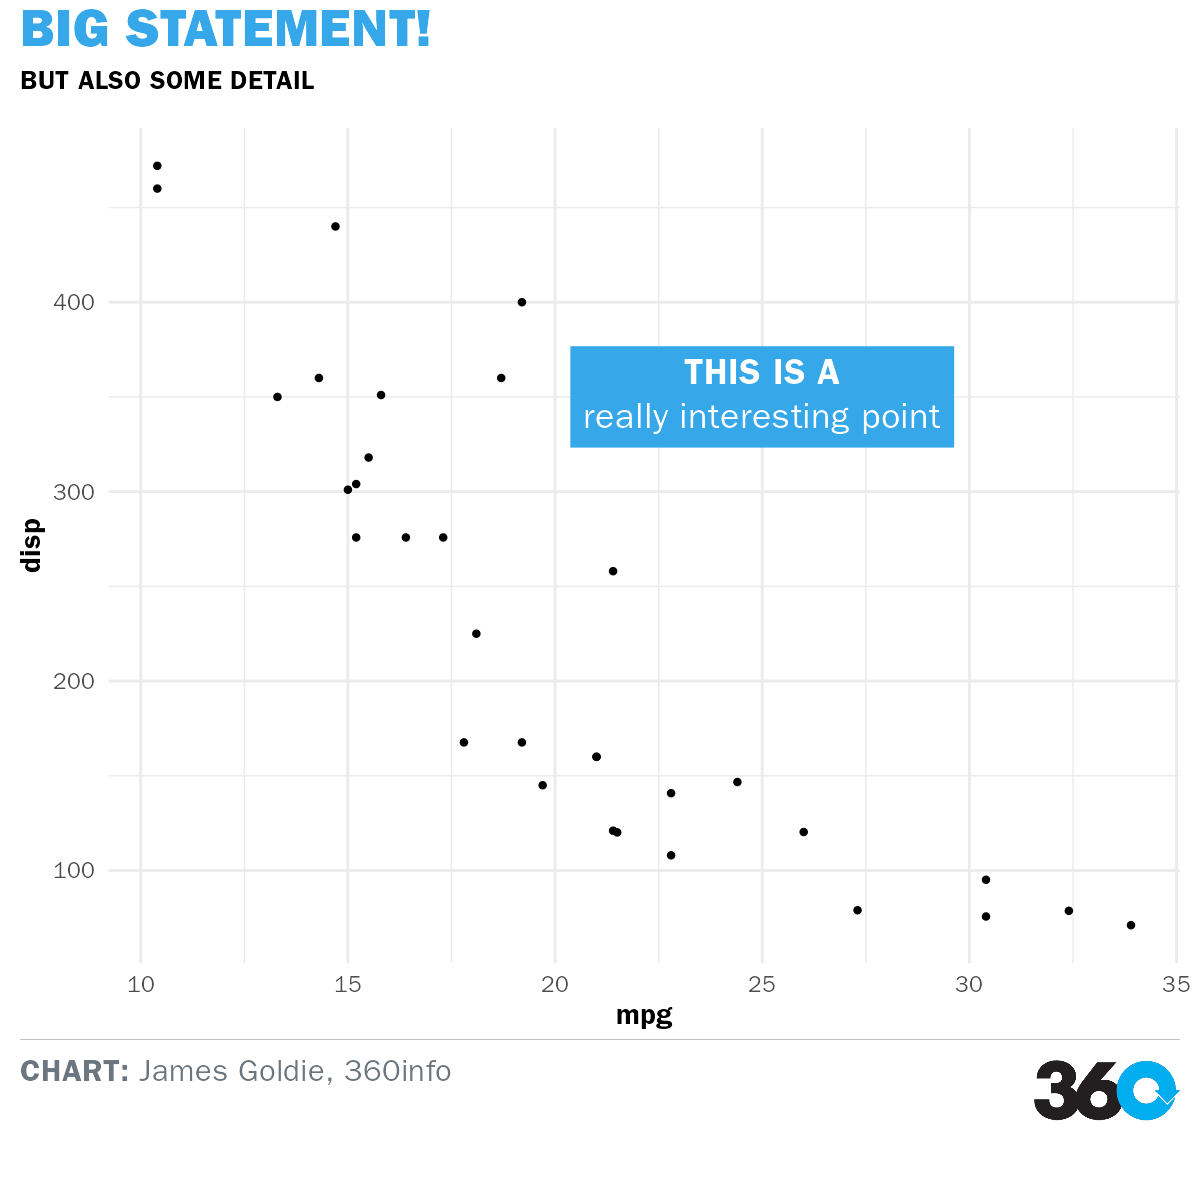
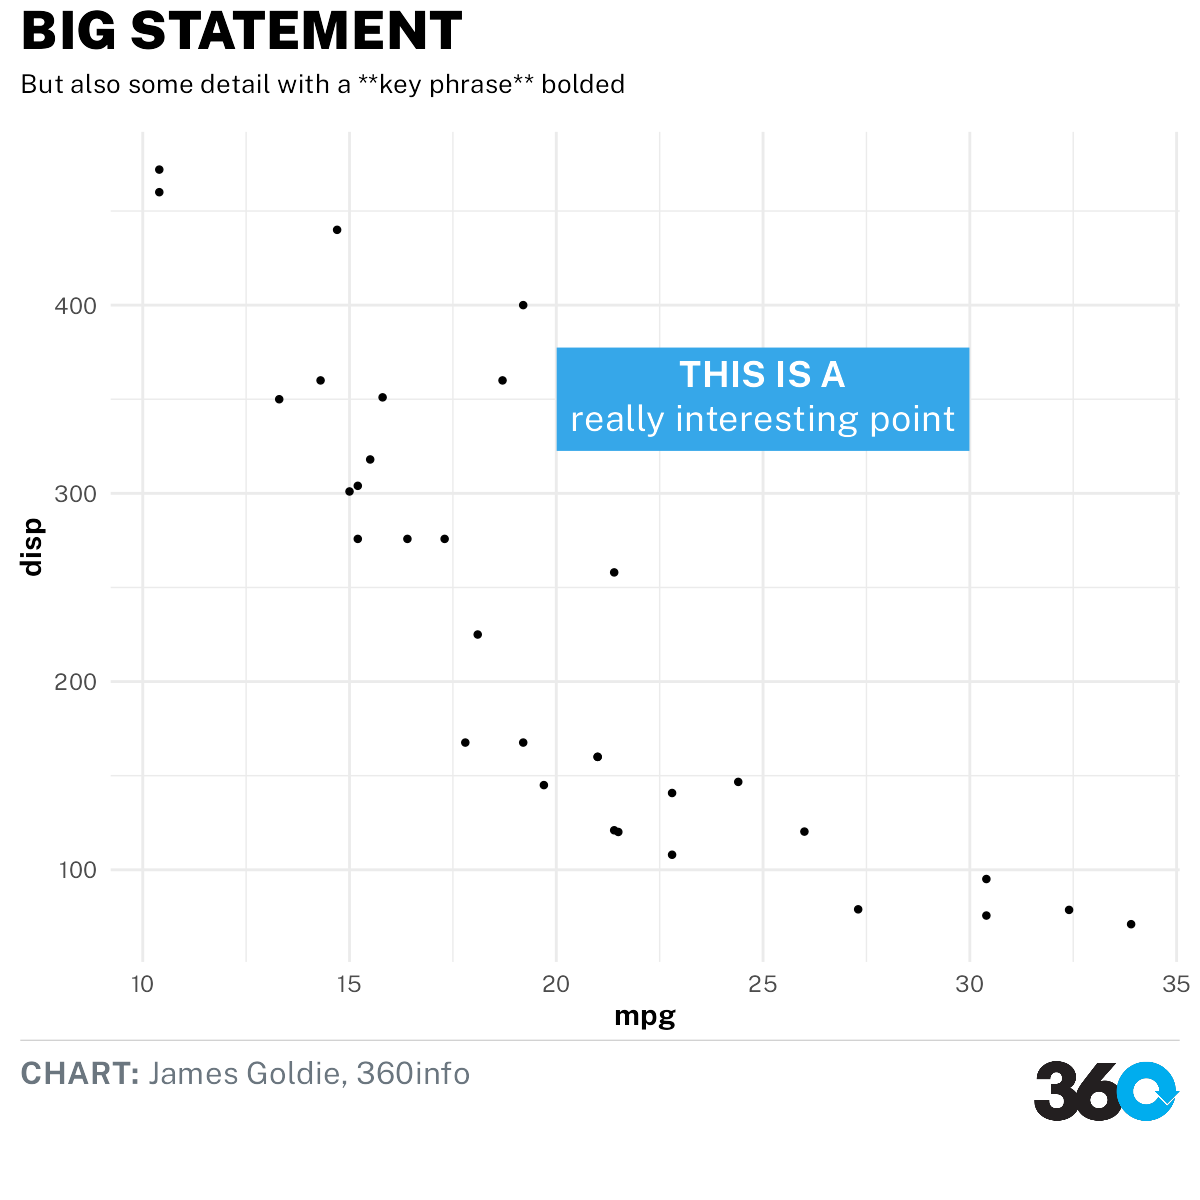
Update README

diff --git a/README.md b/README.md
@@ -9,18 +9,13 @@ guides
 <!-- badges: start -->
 
 [![Lifecycle:
-experimental](https://img.shields.io/badge/lifecycle-experimental-orange.svg)](https://lifecycle.r-lib.org/articles/stages.html#experimental)
+experimental](https://img.shields.io/badge/lifecycle-stable-green.svg)](https://lifecycle.r-lib.org/articles/stages.html#stable)
 <!-- badges: end -->
 
 # Installation
 
-First, download and install either the [Libre Franklin
-fonts](https://fonts.google.com/specimen/Libre+Franklin) or the [ITC
-Franklin Gothic
-fonts](https://www.myfonts.com/fonts/itc/franklin-gothic/) and install
-them.
-
-Then install the package with:
+Install the package from GitHub with the `remotes` or `devtools`
+packages:
 
 ``` r
 remotes::install_github("360-info/themes360info")
@@ -30,15 +25,15 @@ remotes::install_github("360-info/themes360info")
 
 To create plots in our style:
 
--   Add `themes360info::theme_360` to your ggplot2 plot;
--   Add our fonts to other elements, like annotations or additional
-    theme customisations (see the [“Working with fonts”
-    article](articles/articles/working-with-fonts.html));
--   Get brand colours using `themes360info::colours_360`;
--   Add text annotations to plots with `themes360info::annotate_360` and
-    other helpers;
--   Save the plot, adding a footer with the 360 logo, using
-    `themes360info::save_360plot`
+- Add `themes360info::theme_360` to your ggplot2 plot;
+- Add our fonts to other elements, like annotations or additional theme
+  customisations (see the [“Working with fonts”
+  article](articles/articles/working-with-fonts.html));
+- Get brand colours using `themes360info::colours_360`;
+- Add text annotations to plots with `themes360info::annotate_360` and
+  other helpers;
+- Save the plot, adding a footer with the 360 logo, using
+  `themes360info::save_360plot`
 
 ``` r
 library(ggplot2)
@@ -51,8 +46,8 @@ myplot <- ggplot(mtcars) +
     label = "**THIS IS A**<br>really interesting point") +
   theme_360() +
   labs(
-    title = "BIG STATEMENT!",
-    subtitle = "BUT ALSO SOME DETAIL",
+    title = "BIG STATEMENT",
+    subtitle = "But also some detail with a **key phrase** bolded",
     caption = "**CHART:** James Goldie, 360info")
 
 save_360plot(myplot, "man/figures/README-demo.png")
